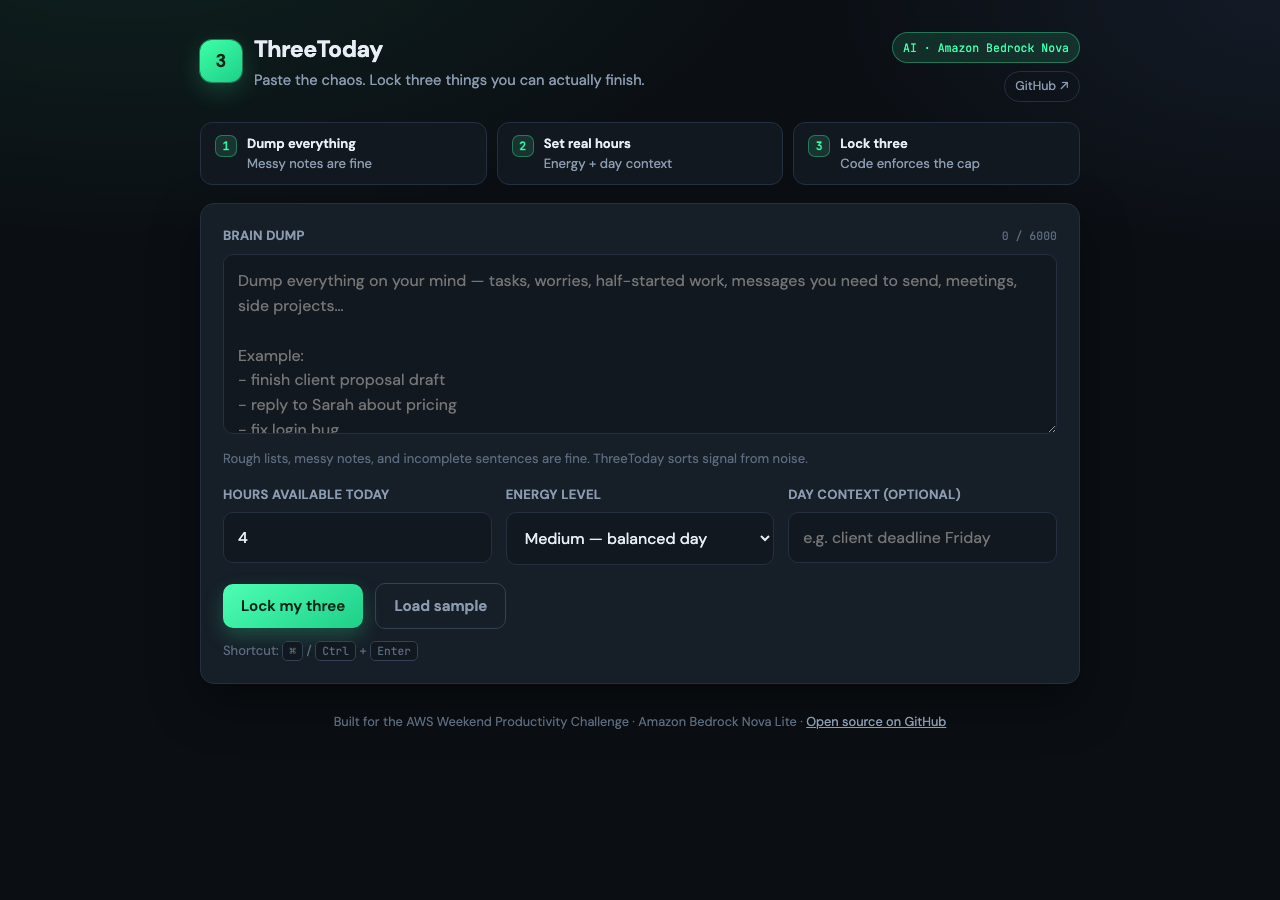
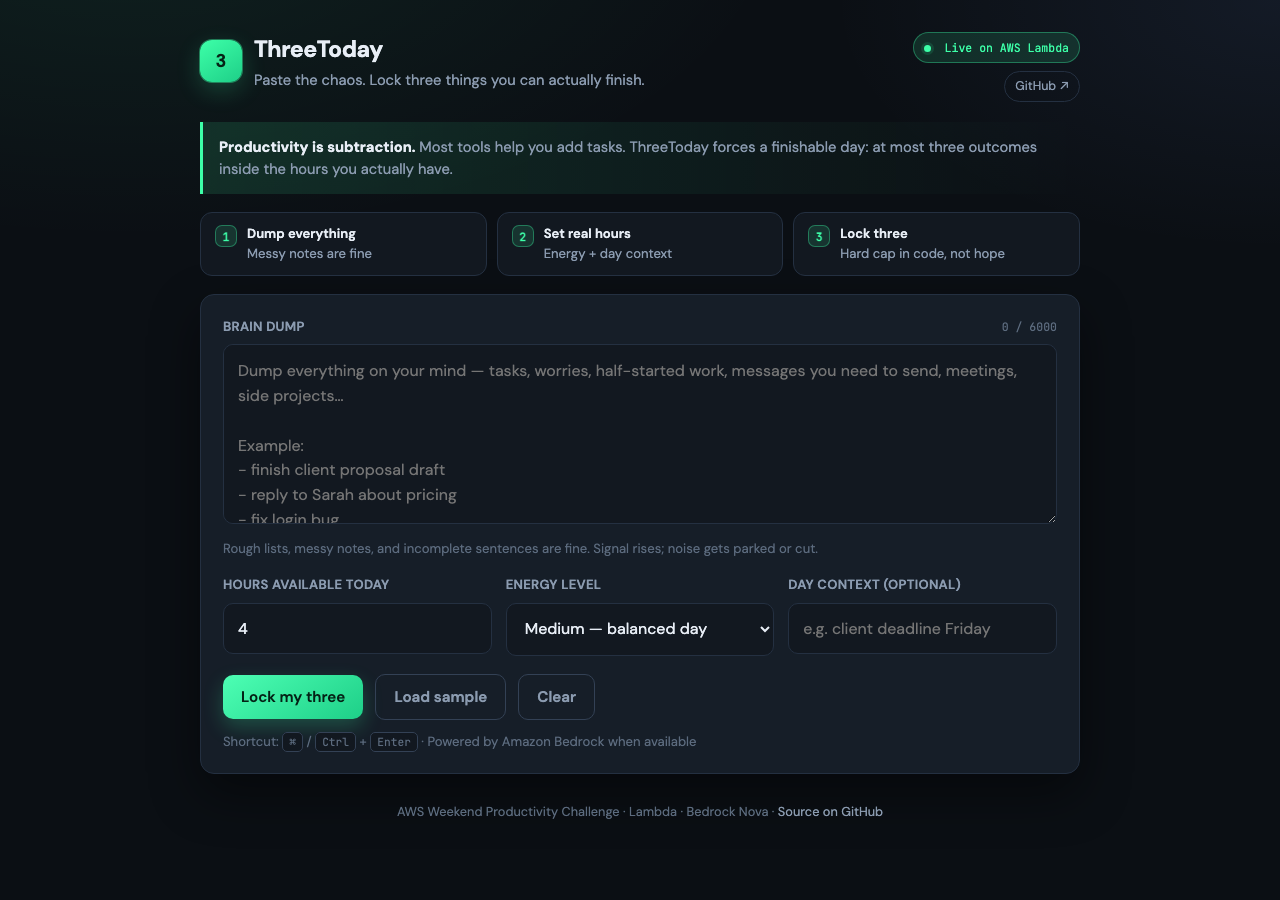
Polish ThreeToday live experience
Hero copy, engine chip, toast feedback, clear action, smarter prioritizer
copy/scoring, and refined UI polish for the challenge submission.

diff --git a/src/lambda_function.py b/src/lambda_function.py
@@ -299,6 +299,73 @@ HTML_PAGE = r"""<!DOCTYPE html>
       flex-shrink: 0;
     }
 
+    .engine-chip {
+      display: inline-flex;
+      align-items: center;
+      gap: 6px;
+      font-family: var(--mono);
+      font-size: 0.7rem;
+      padding: 4px 10px;
+      border-radius: 999px;
+      border: 1px solid var(--border);
+      color: var(--text-dim);
+      background: var(--bg-elevated);
+    }
+    .engine-chip.bedrock { color: var(--accent); border-color: var(--accent-border); background: var(--accent-dim); }
+    .engine-chip.heuristic { color: var(--warn); border-color: rgba(255,176,32,0.35); background: var(--warn-dim); }
+
+    .btn-ghost {
+      background: transparent;
+      color: var(--text-dim);
+      border: 1px solid transparent;
+      padding: 10px 12px;
+    }
+    .btn-ghost:hover { color: var(--text-muted); border-color: var(--border); }
+
+    .hero-quote {
+      margin: 0 0 18px;
+      padding: 14px 16px;
+      border-left: 3px solid var(--accent);
+      background: linear-gradient(90deg, var(--accent-dim), transparent);
+      border-radius: 0 12px 12px 0;
+      color: var(--text-muted);
+      font-size: 0.92rem;
+    }
+    .hero-quote strong { color: var(--text); }
+
+    .toast {
+      position: fixed;
+      bottom: 24px;
+      left: 50%;
+      transform: translateX(-50%) translateY(20px);
+      background: var(--bg-card);
+      border: 1px solid var(--accent-border);
+      color: var(--text);
+      padding: 12px 18px;
+      border-radius: 12px;
+      box-shadow: var(--shadow);
+      opacity: 0;
+      pointer-events: none;
+      transition: opacity 0.25s, transform 0.25s;
+      z-index: 50;
+      font-size: 0.9rem;
+    }
+    .toast.show { opacity: 1; transform: translateX(-50%) translateY(0); }
+
+    .item:hover { border-color: var(--border-strong); }
+    .btn-primary:hover { filter: brightness(1.05); }
+    .btn-secondary:hover { border-color: var(--accent-border); color: var(--text); }
+
+    footer a { color: var(--text-muted); text-decoration: none; }
+    footer a:hover { color: var(--accent); }
+
+    .live-dot {
+      width: 7px; height: 7px; border-radius: 50%;
+      background: var(--accent);
+      box-shadow: 0 0 0 3px var(--accent-dim);
+      display: inline-block;
+    }
+
     label {
       display: block;
       font-size: 0.82rem;
@@ -564,15 +631,17 @@ HTML_PAGE = r"""<!DOCTYPE html>
         </div>
       </div>
       <div class="header-right">
-        <div class="badge">AI · Amazon Bedrock Nova</div>
+        <div class="badge"><span class="live-dot"></span>&nbsp; Live on AWS Lambda</div>
         <a class="badge-link" href="https://github.com/shxkir/threetoday" target="_blank" rel="noopener">GitHub ↗</a>
       </div>
     </header>
 
+    <p class="hero-quote"><strong>Productivity is subtraction.</strong> Most tools help you add tasks. ThreeToday forces a finishable day: at most three outcomes inside the hours you actually have.</p>
+
     <div class="steps" aria-hidden="true">
       <div class="step"><div class="step-n">1</div><div class="step-t"><strong>Dump everything</strong>Messy notes are fine</div></div>
       <div class="step"><div class="step-n">2</div><div class="step-t"><strong>Set real hours</strong>Energy + day context</div></div>
-      <div class="step"><div class="step-n">3</div><div class="step-t"><strong>Lock three</strong>Code enforces the cap</div></div>
+      <div class="step"><div class="step-n">3</div><div class="step-t"><strong>Lock three</strong>Hard cap in code, not hope</div></div>
     </div>
 
     <section class="card">
@@ -591,7 +660,7 @@ Example:
 - pay invoices
 - clean desk
 - maybe start that blog post"></textarea>
-      <p class="hint">Rough lists, messy notes, and incomplete sentences are fine. ThreeToday sorts signal from noise.</p>
+      <p class="hint">Rough lists, messy notes, and incomplete sentences are fine. Signal rises; noise gets parked or cut.</p>
 
       <div class="row">
         <div>
@@ -615,14 +684,19 @@ Example:
       <div class="actions">
         <button class="btn-primary" id="planBtn" onclick="runPlan()">Lock my three</button>
         <button class="btn-secondary" id="sampleBtn" onclick="loadSample()">Load sample</button>
-        <button class="btn-secondary" id="copyBtn" onclick="copyMarkdown()" style="display:none">Copy as Markdown</button>
+        <button class="btn-secondary" id="clearBtn" onclick="clearForm()">Clear</button>
+        <button class="btn-secondary" id="copyBtn" onclick="copyMarkdown()" style="display:none">Copy Markdown</button>
         <span class="status" id="status"></span>
       </div>
-      <p class="hint" style="margin-top:12px">Shortcut: <span class="kbd">⌘</span> / <span class="kbd">Ctrl</span> + <span class="kbd">Enter</span></p>
+      <p class="hint" style="margin-top:12px">Shortcut: <span class="kbd">⌘</span> / <span class="kbd">Ctrl</span> + <span class="kbd">Enter</span> · Powered by Amazon Bedrock when available</p>
     </section>
 
     <div id="results">
       <section class="card">
+        <div class="label-row" style="margin-bottom:12px">
+          <h2 style="font-size:1.05rem;margin:0">Your locked plan</h2>
+          <span class="engine-chip" id="engineChip">—</span>
+        </div>
         <div class="summary" id="summary"></div>
         <div class="budget-bar" aria-hidden="true"><div class="budget-fill" id="budgetFill"></div></div>
         <div class="budget-meta">
@@ -666,10 +740,11 @@ Example:
     </div>
 
     <footer>
-      Built for the AWS Weekend Productivity Challenge · Amazon Bedrock Nova Lite ·
-      <a href="https://github.com/shxkir/threetoday" target="_blank" rel="noopener">Open source on GitHub</a>
+      AWS Weekend Productivity Challenge · Lambda · Bedrock Nova ·
+      <a href="https://github.com/shxkir/threetoday" target="_blank" rel="noopener">Source on GitHub</a>
     </footer>
   </div>
+  <div class="toast" id="toast" role="status"></div>
 
   <script>
     let lastPlan = null;
@@ -695,12 +770,35 @@ Example:
       document.getElementById('context').value = 'Need 2 client deliverables out today';
       updateCharCount();
       setStatus('Sample loaded — hit Lock my three', 'ok');
+      toast('Sample loaded');
+    }
+
+    function clearForm() {
+      document.getElementById('brainDump').value = '';
+      document.getElementById('hours').value = 4;
+      document.getElementById('energy').value = 'medium';
+      document.getElementById('context').value = '';
+      document.getElementById('results').classList.remove('show');
+      document.getElementById('copyBtn').style.display = 'none';
+      lastPlan = null;
+      updateCharCount();
+      setStatus('');
+      toast('Cleared');
     }
 
     function setStatus(msg, kind) {
       const el = document.getElementById('status');
       el.textContent = msg || '';
       el.className = 'status' + (kind ? ' ' + kind : '');
+    }
+
+    let toastTimer = null;
+    function toast(msg) {
+      const el = document.getElementById('toast');
+      el.textContent = msg;
+      el.classList.add('show');
+      clearTimeout(toastTimer);
+      toastTimer = setTimeout(() => el.classList.remove('show'), 2200);
     }
 
     function updateCharCount() {
@@ -748,6 +846,7 @@ Example:
         renderPlan(data);
         document.getElementById('copyBtn').style.display = 'inline-block';
         setStatus('Plan locked ✓', 'ok');
+        toast('Plan locked — max three for today');
       } catch (err) {
         setStatus(err.message || String(err), 'error');
       } finally {
@@ -771,8 +870,19 @@ Example:
       document.getElementById('budgetFill').style.width = pct + '%';
       document.getElementById('budgetLeft').textContent =
         used + 'h locked of ' + budget + 'h budget (' + pct + '%)';
-      document.getElementById('budgetModel').textContent =
-        (data.model || 'amazon.nova-lite-v1:0').replace('amazon.', '');
+      const model = String(data.model || 'amazon.nova-lite-v1:0');
+      const isHeuristic = model === 'heuristic';
+      document.getElementById('budgetModel').textContent = isHeuristic
+        ? 'engine: smart prioritizer'
+        : model.replace('amazon.', '').replace('apac.', 'apac/');
+      const chip = document.getElementById('engineChip');
+      if (isHeuristic) {
+        chip.className = 'engine-chip heuristic';
+        chip.textContent = 'Prioritizer · max-3 enforced';
+      } else {
+        chip.className = 'engine-chip bedrock';
+        chip.textContent = 'Bedrock · ' + model.replace('amazon.', '').replace('apac.', '');
+      }
 
       const todayEl = document.getElementById('todayList');
       if (!data.today?.length) {
@@ -848,6 +958,7 @@ Example:
       (lastPlan.killed || []).forEach(t => lines.push(`- ${t.title} — ${t.why}`));
       navigator.clipboard.writeText(lines.join('\n')).then(() => {
         setStatus('Copied Markdown ✓', 'ok');
+        toast('Copied to clipboard');
       }).catch(() => setStatus('Copy failed', 'error'));
     }
 
@@ -899,39 +1010,65 @@ def heuristic_candidates(
         parts = [p.strip() for p in brain_dump.replace("\n", ". ").split(".") if p.strip()]
         lines = parts[:10]
 
-    kill_words = ("maybe", "eventually", "someday", "watch", "learn", "clean downloads", "browse")
-    high_words = ("rewrite", "build", "research", "proposal", "architect", "migrate")
-    impact_words = (
-        "client", "lead", "invoice", "deadline", "ship", "deploy", "fix", "reply", "send", "pay"
+    kill_words = (
+        "maybe", "eventually", "someday", "watch", "learn", "clean downloads",
+        "browse", "scroll", "netflix", "youtube", "might", "could try",
     )
+    high_words = (
+        "rewrite", "build", "research", "proposal", "architect", "migrate",
+        "design", "implement", "refactor", "write", "draft",
+    )
+    impact_words = (
+        "client", "lead", "invoice", "deadline", "ship", "deploy", "fix",
+        "reply", "send", "pay", "launch", "demo", "meeting", "customer",
+        "revenue", "urgent", "blocker", "production",
+    )
+    quick_words = ("reply", "send", "email", "pay", "book", "call", "text", "confirm")
+
+    ctx_tokens = set((context or "").lower().replace(",", " ").split())
 
     candidates = []
     for i, line in enumerate(lines[:12]):
         title = line[:100]
         low = title.lower()
-        score = 82 - i * 4
+        score = 84.0 - i * 3.5
         if any(w in low for w in impact_words):
-            score += 12
-        if context and any(w in low for w in context.lower().split()[:6]):
-            score += 8
+            score += 14
+        if ctx_tokens and any(tok in low for tok in ctx_tokens if len(tok) > 3):
+            score += 10
         if any(w in low for w in kill_words):
-            score -= 35
-            bucket = "killed" if score < 48 else "parked"
-        elif score >= 70:
+            score -= 38
+            bucket = "killed" if score < 50 else "parked"
+        elif score >= 72:
             bucket = "today"
         else:
             bucket = "parked"
+
         effort = "high" if any(w in low for w in high_words) else "medium"
-        if any(w in low for w in ("reply", "send", "email", "pay", "book")):
+        if any(w in low for w in quick_words):
             effort = "low"
+        if energy == "low" and effort == "high":
+            score -= 12
+        if energy == "high" and effort == "high":
+            score += 6
+
         hrs = 1.5 if effort == "high" else (0.5 if effort == "low" else 0.75)
         nice = title[0].upper() + title[1:] if title else f"Task {i + 1}"
         if effort == "low":
             move = f"Open the thread/tool and complete the first send for: {nice[:50]}"
+            why = "High leverage, low friction — easy win that moves the day forward."
         elif effort == "high":
             move = f"Create a blank doc titled '{nice[:40]}' and write 3 bullets of the outcome"
+            why = "Deep work candidate — only keep it if the impact justifies the hours."
         else:
             move = f"Block 25 minutes and start the first concrete step on: {nice[:50]}"
+            why = "Solid progress item that fits a normal energy day."
+
+        if bucket == "killed":
+            why = "Vague or low-ROI relative to your real constraints — cut on purpose."
+        elif bucket == "parked":
+            why = "Real work, but not in today's top three after hour budgeting."
+
         candidates.append(
             {
                 "title": nice,
@@ -939,16 +1076,16 @@ def heuristic_candidates(
                 "effort": effort,
                 "priority_score": score,
                 "bucket_suggestion": bucket,
-                "why": "Ranked from wording, position, and your day context.",
+                "why": why,
                 "first_move": move,
             }
         )
 
     return {
         "rationale": (
-            f"Energy={energy}, budget={hours}h"
-            + (f", context={context}" if context else "")
-            + ". Locked a realistic plan with hard max-three + hour budget."
+            f"With {hours:g}h and {energy} energy"
+            + (f" ({context})" if context else "")
+            + ", this plan undercommits on purpose: finish three outcomes, park the rest, kill the noise."
         ),
         "candidates": candidates,
         "_engine": "heuristic",
